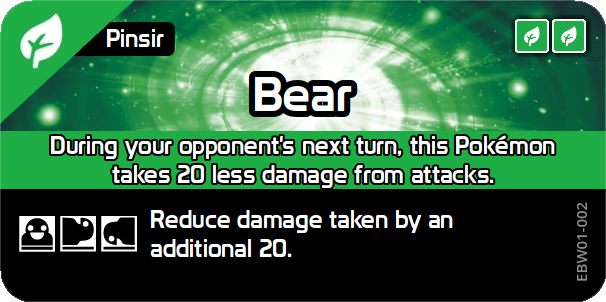
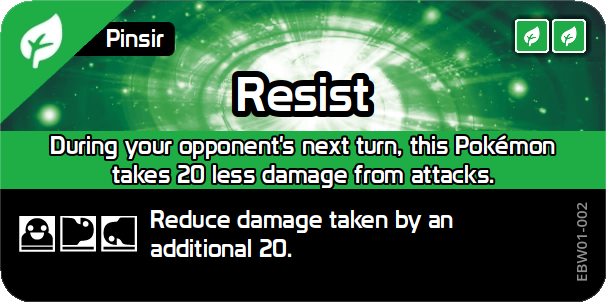
EBW01-002

Changed region(s): [[0.3564, 0.2086, 0.6238, 0.3874]]

diff --git a/database/text/wazacards/EB01/01-001_pinsir.md b/database/text/wazacards/EB01/01-001_pinsir.md
@@ -21,9 +21,9 @@
 
 [Concentrate](https://bandai-hobby.net/site/pokemon/plakoro/images/products/eb01/03/img_wazacard01.webp)
 
-#### Bear ?
+#### Resist ?
 
-| Name      | Bear ?                                                                            |
+| Name      | Resist ?                                                                          |
 | --------- | --------------------------------------------------------------------------------- |
 | Japanese  | たえる                                                                            |
 | Type      | Grass                                                                             |
@@ -38,7 +38,7 @@
 | Down      | Reduce damage taken by an additional 20.                                          |
 | Sideways  |                                                                                   |
 
-[Bear](https://bandai-hobby.net/site/pokemon/plakoro/images/products/eb01/03/img_wazacard02.webp)
+[Resist](https://bandai-hobby.net/site/pokemon/plakoro/images/products/eb01/03/img_wazacard02.webp)
 
 #### Horn Beat ?
 
